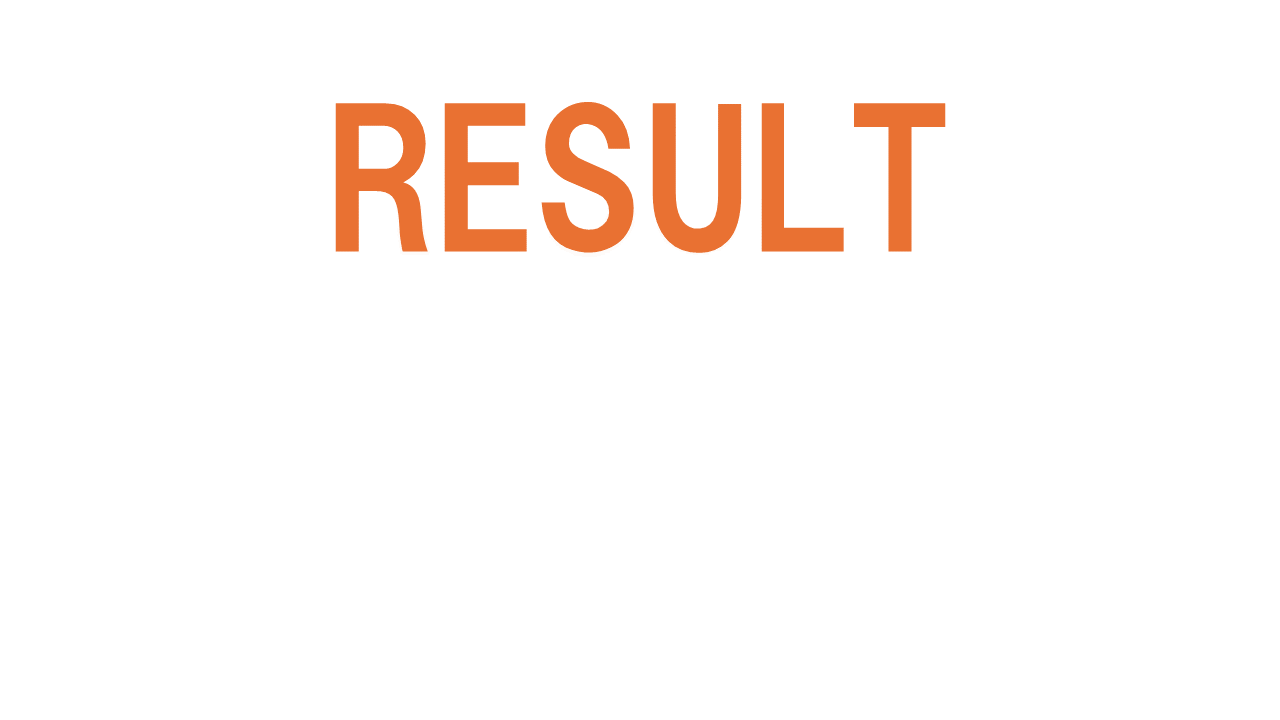
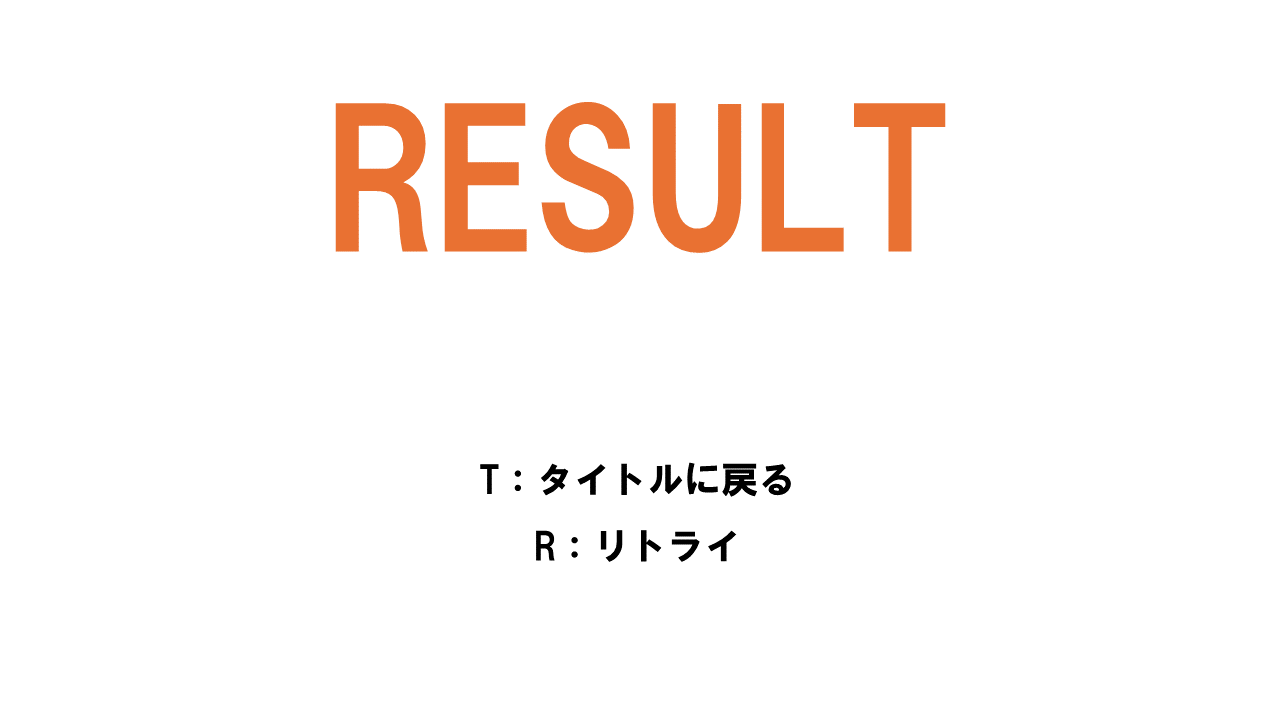
視点の変更やリザルト画面の変更、その他もろもろ

Changed region(s): [[0.375, 0.6417, 0.625, 0.7028], [0.4688, 0.7333, 0.5938, 0.7944], [0.4062, 0.7333, 0.4375, 0.7944]]

diff --git a/test.cpp b/test.cpp
@@ -1,0 +1,51 @@
+#include "test.h"
+#include "Engine/Model.h"
+#include "Engine/Input.h"
+
+test::test(GameObject* parent)
+	:GameObject(parent,"test"),hModel_(-1)
+{
+}
+
+test::test(GameObject* parent, int z_)
+	:GameObject(parent,"test"),hModel_(-1)
+{
+	transform_.position_.z = z_;
+}
+
+test::~test()
+{
+}
+
+void test::Initialize()
+{
+	hModel_ = Model::Load("Model\\road.fbx");
+	assert(hModel_ >= 0);
+	transform_.position_.z = 5;
+}
+
+void test::Update()
+{
+	if (Input::IsKey(DIK_W)) {
+		transform_.position_.z += 0.1;
+	}
+	if (Input::IsKey(DIK_S)) {
+		transform_.position_.z -= 0.1;
+	}
+	if (Input::IsKey(DIK_LEFT)) {
+		transform_.rotate_.y -= 0.5;
+	}
+	if (Input::IsKey(DIK_RIGHT)) {
+		transform_.rotate_.y += 0.5;
+	}
+}
+
+void test::Draw()
+{
+	Model::SetTransform(hModel_, transform_);
+	Model::Draw(hModel_);
+}
+
+void test::Release()
+{
+}

diff --git a/Result.cpp b/Result.cpp
@@ -1,6 +1,7 @@
 #include "Result.h"
 #include "Engine/Image.h"
 #include "Engine/Input.h"
+#include "Engine/SceneManager.h"
 
 ResultScene::ResultScene(GameObject* parent)
 	:GameObject(parent,"ResultScene")
@@ -16,6 +17,10 @@ void ResultScene::Initialize()
 
 void ResultScene::Update()
 {
+	if (Input::IsKey(DIK_T)) {
+		SceneManager* pSceneManager = (SceneManager*)FindObject("SceneManager");
+		pSceneManager->ChangeScene(SCENE_ID_TITLE);
+	}
 }
 
 void ResultScene::Draw()

diff --git a/Stage.cpp b/Stage.cpp
@@ -34,10 +34,10 @@ void Stage::Update()
 		Instantiate<Road>(this,50);
 		rTimer_ = 0.0;
 	}
-	if (oTimer_ >= 1.5) {
+	if (oTimer_ >= 2.0) {
 		std::random_shuffle(std::begin(xa), std::end(xa));
 		if (osTimer_ >= 3.0) {
-			speed_ += 0.02;
+			speed_ += 0.03;
 			osTimer_ = 0.0;
 		}
 		for (int i = 0; i < 2; i++) {
